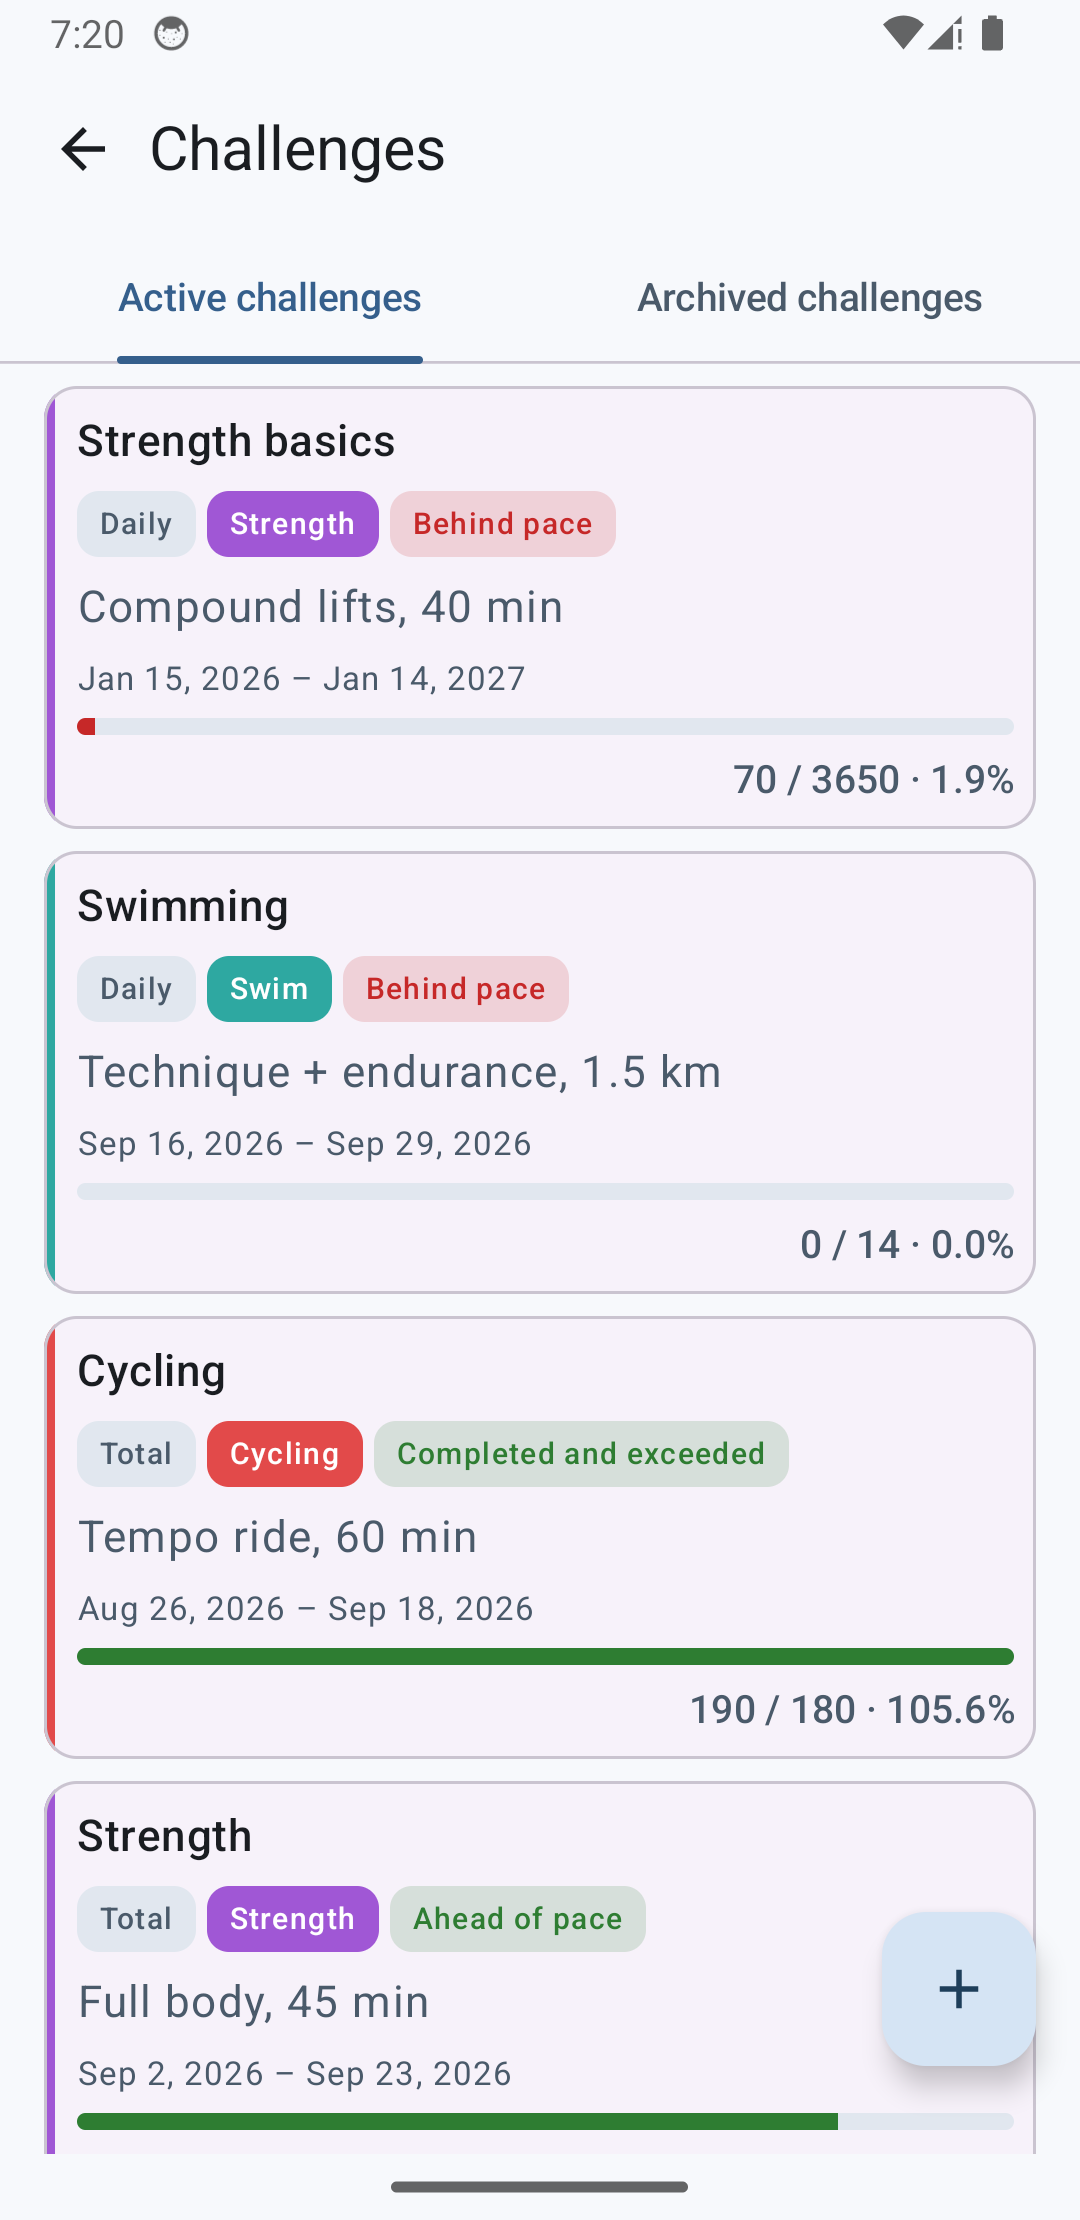
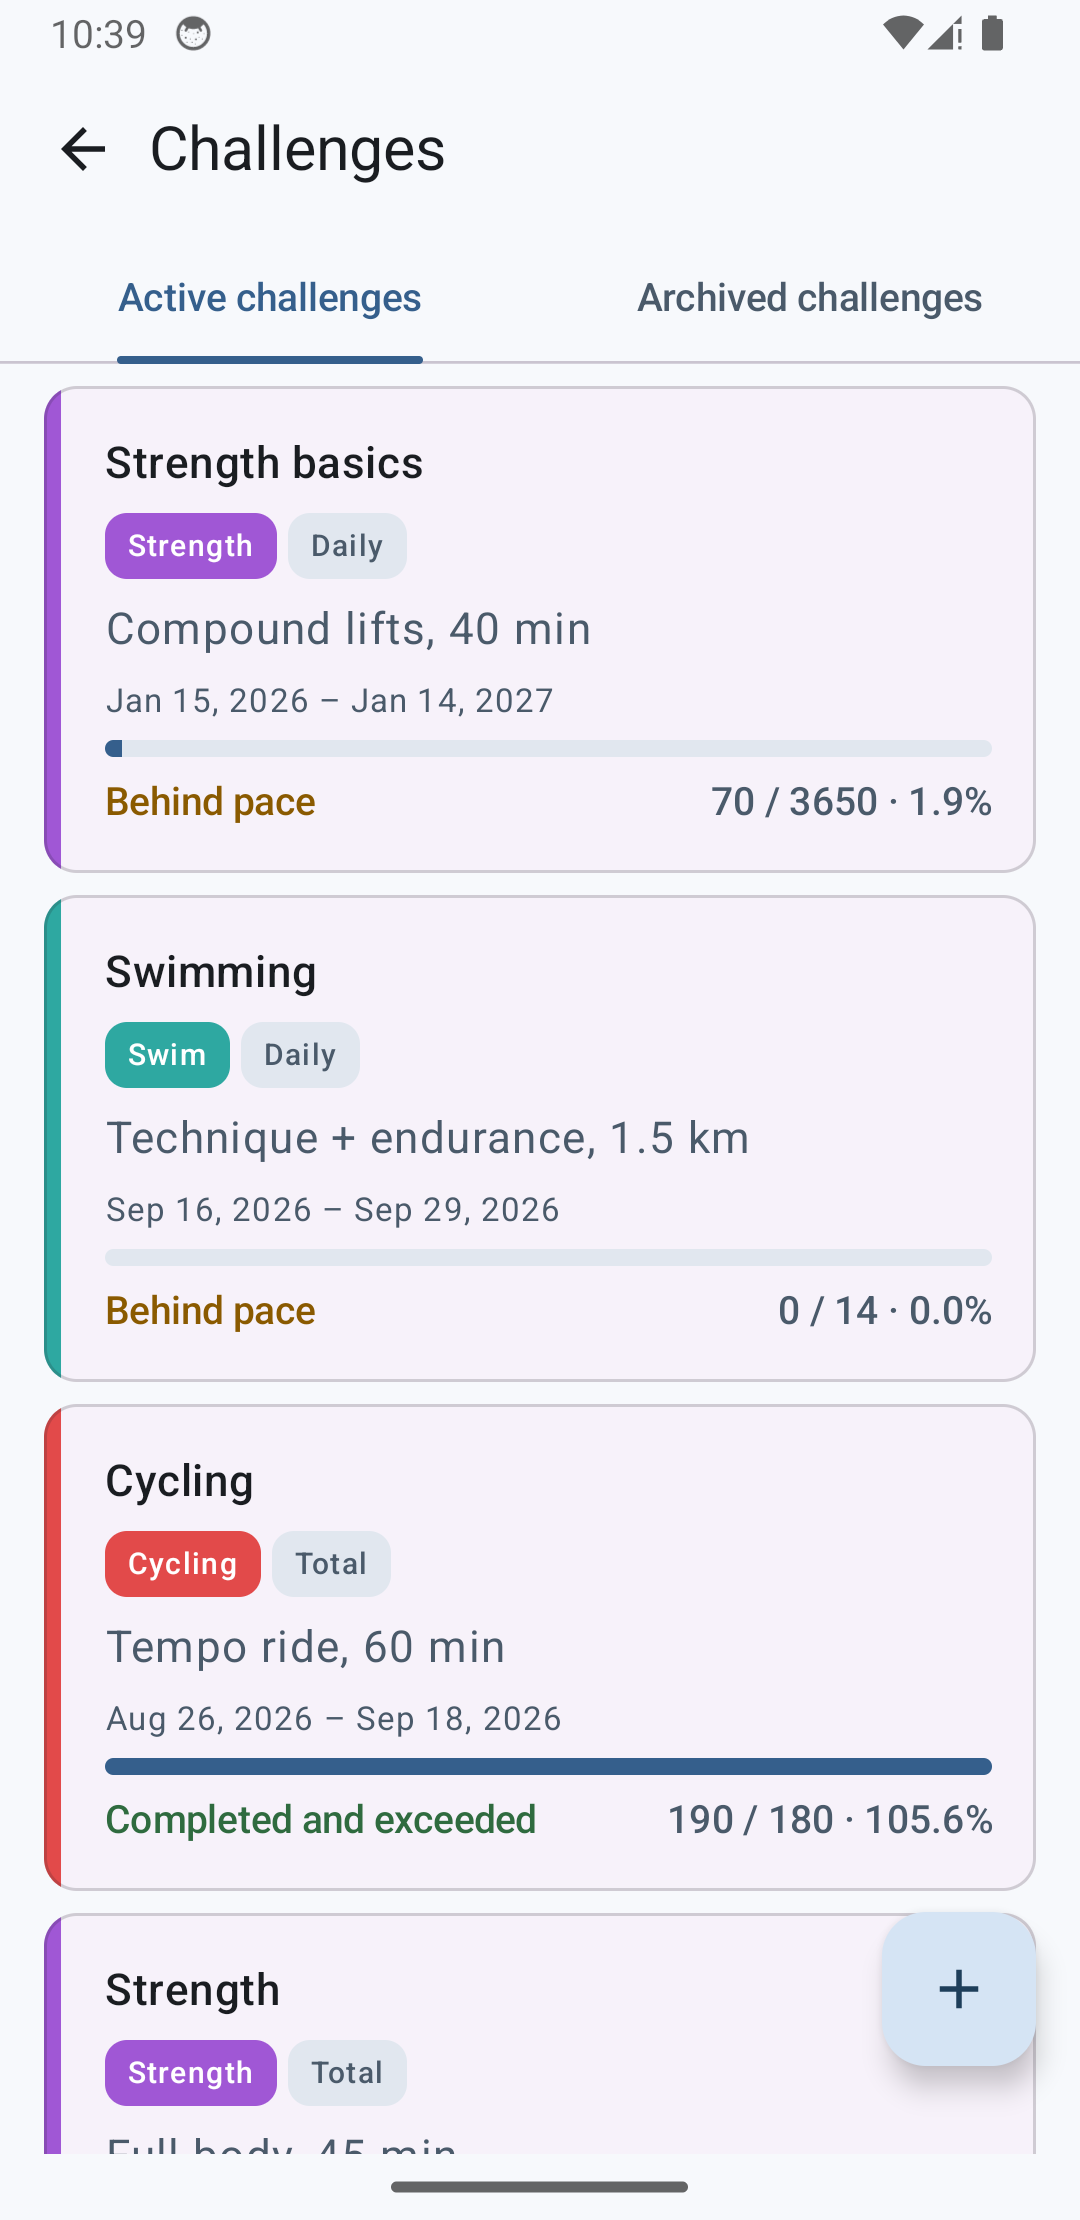
Refine challenge card status styling

diff --git a/app/src/main/java/com/rafaelfelipeac/hermes/features/challenges/presentation/ChallengeDetailSummaryCard.kt b/app/src/main/java/com/rafaelfelipeac/hermes/features/challenges/presentation/ChallengeDetailSummaryCard.kt
@@ -3,17 +3,27 @@ package com.rafaelfelipeac.hermes.features.challenges.presentation
 import androidx.compose.foundation.BorderStroke
 import androidx.compose.foundation.layout.Arrangement
 import androidx.compose.foundation.layout.Column
+import androidx.compose.foundation.layout.IntrinsicSize
+import androidx.compose.foundation.layout.Row
+import androidx.compose.foundation.layout.fillMaxHeight
 import androidx.compose.foundation.layout.fillMaxWidth
+import androidx.compose.foundation.layout.height
 import androidx.compose.foundation.layout.padding
+import androidx.compose.foundation.layout.width
 import androidx.compose.material3.Card
 import androidx.compose.material3.CardDefaults
 import androidx.compose.material3.MaterialTheme.colorScheme
 import androidx.compose.material3.MaterialTheme.shapes
+import androidx.compose.material3.Surface
 import androidx.compose.runtime.Composable
 import androidx.compose.ui.Modifier
+import androidx.compose.ui.draw.clip
+import com.rafaelfelipeac.hermes.core.ui.theme.CHALLENGE_FRAME_ALPHA
 import com.rafaelfelipeac.hermes.core.ui.theme.Dimens.BorderHairline
-import com.rafaelfelipeac.hermes.core.ui.theme.Dimens.SpacingMd
+import com.rafaelfelipeac.hermes.core.ui.theme.Dimens.ChallengeCategoryAccentWidth
 import com.rafaelfelipeac.hermes.core.ui.theme.Dimens.SpacingSm
+import com.rafaelfelipeac.hermes.core.ui.theme.Dimens.SpacingXl
+import com.rafaelfelipeac.hermes.core.ui.theme.categoryAccentColor
 import com.rafaelfelipeac.hermes.features.categories.domain.model.Category
 import com.rafaelfelipeac.hermes.features.challenges.domain.model.Challenge
 import com.rafaelfelipeac.hermes.features.challenges.domain.model.ChallengeCalculationResult
@@ -24,22 +34,39 @@ internal fun ChallengeDetailSummaryCard(
     category: Category?,
     calculation: ChallengeCalculationResult,
 ) {
+    val frameColor = colorScheme.onSurface.copy(alpha = CHALLENGE_FRAME_ALPHA)
     Card(
         modifier = Modifier.fillMaxWidth(),
         shape = shapes.medium,
         colors = CardDefaults.cardColors(containerColor = colorScheme.surfaceContainerLow),
-        border = BorderStroke(BorderHairline, colorScheme.outlineVariant),
+        border = BorderStroke(BorderHairline, frameColor),
     ) {
-        Column(
-            modifier = Modifier.padding(SpacingMd),
-            verticalArrangement = Arrangement.spacedBy(SpacingSm),
+        Row(
+            modifier =
+                Modifier
+                    .fillMaxWidth()
+                    .height(IntrinsicSize.Min)
+                    .clip(shapes.medium),
         ) {
-            ChallengeSummaryContent(
-                challenge = challenge,
-                category = category,
-                calculation = calculation,
-                showProgressBar = true,
-            )
+            Surface(
+                color = category?.let { categoryAccentColor(it.colorId) } ?: colorScheme.outlineVariant,
+                modifier =
+                    Modifier
+                        .fillMaxHeight()
+                        .width(ChallengeCategoryAccentWidth),
+            ) {}
+
+            Column(
+                modifier = Modifier.weight(1f).padding(SpacingXl),
+                verticalArrangement = Arrangement.spacedBy(SpacingSm),
+            ) {
+                ChallengeSummaryContent(
+                    challenge = challenge,
+                    category = category,
+                    calculation = calculation,
+                    showProgressBar = true,
+                )
+            }
         }
     }
 }

diff --git a/app/src/main/java/com/rafaelfelipeac/hermes/features/challenges/presentation/ChallengeSummaryContent.kt b/app/src/main/java/com/rafaelfelipeac/hermes/features/challenges/presentation/ChallengeSummaryContent.kt
@@ -4,6 +4,7 @@ package com.rafaelfelipeac.hermes.features.challenges.presentation
 
 import androidx.compose.foundation.layout.Arrangement
 import androidx.compose.foundation.layout.FlowRow
+import androidx.compose.foundation.layout.Row
 import androidx.compose.foundation.layout.fillMaxWidth
 import androidx.compose.material3.MaterialTheme.colorScheme
 import androidx.compose.material3.MaterialTheme.typography
@@ -26,6 +27,7 @@ import com.rafaelfelipeac.hermes.features.challenges.domain.model.ChallengeCalcu
 
 private const val CHALLENGE_TITLE_MAX_LINES = 2
 private const val CHALLENGE_DESCRIPTION_MAX_LINES = 2
+private const val CHALLENGE_STATUS_MAX_LINES = 2
 
 @Composable
 internal fun ChallengeSummaryContent(
@@ -47,11 +49,6 @@ internal fun ChallengeSummaryContent(
         horizontalArrangement = Arrangement.spacedBy(SpacingXs),
         verticalArrangement = Arrangement.spacedBy(SpacingXs),
     ) {
-        TitleChip(
-            label = challengeTargetTypeLabel(challenge.targetType),
-            containerColor = colorScheme.surfaceVariant,
-            contentColor = colorScheme.onSurfaceVariant,
-        )
         category?.let {
             TitleChip(
                 label = it.name,
@@ -59,13 +56,11 @@ internal fun ChallengeSummaryContent(
                 contentColor = categoryAccent?.let { accent -> contentColorForBackground(accent) } ?: colorScheme.onSurfaceVariant,
             )
         }
-        calculation?.let { result ->
-            TitleChip(
-                label = challengeStatusLabel(result.status),
-                containerColor = challengeProgressContainerColor(result.status),
-                contentColor = challengeProgressColor(result.status),
-            )
-        }
+        TitleChip(
+            label = challengeTargetTypeLabel(challenge.targetType),
+            containerColor = colorScheme.surfaceVariant,
+            contentColor = colorScheme.onSurfaceVariant,
+        )
     }
     challenge.description?.takeIf { it.isNotBlank() }?.let { description ->
         Text(
@@ -87,11 +82,28 @@ internal fun ChallengeSummaryContent(
     )
     calculation?.let { result ->
         if (showProgressBar) {
-            ChallengeProgressBar(result.visualProgress, challengeProgressColor(result.status), modifier)
+            ChallengeProgressBar(result.visualProgress, challengeProgressBarColor(), modifier)
         }
+        ChallengeProgressFooter(result = result)
+    }
+}
+
+@Composable
+private fun ChallengeProgressFooter(result: ChallengeCalculationResult) {
+    Row(
+        modifier = Modifier.fillMaxWidth(),
+        horizontalArrangement = Arrangement.SpaceBetween,
+    ) {
+        Text(
+            text = challengeStatusLabel(result.status),
+            modifier = Modifier.weight(1f),
+            style = typography.labelLarge,
+            color = challengeStatusTextColor(result.status),
+            maxLines = CHALLENGE_STATUS_MAX_LINES,
+            overflow = TextOverflow.Ellipsis,
+        )
         Text(
             text = challengeProgressLabel(result),
-            modifier = Modifier.fillMaxWidth(),
             style = typography.labelLarge,
             color = colorScheme.onSurfaceVariant,
             textAlign = TextAlign.End,

diff --git a/app/src/main/java/com/rafaelfelipeac/hermes/features/challenges/presentation/ChallengeProgressPresentation.kt b/app/src/main/java/com/rafaelfelipeac/hermes/features/challenges/presentation/ChallengeProgressPresentation.kt
@@ -5,6 +5,11 @@ import androidx.compose.runtime.Composable
 import androidx.compose.ui.graphics.Color
 import androidx.compose.ui.res.stringResource
 import com.rafaelfelipeac.hermes.R
+import com.rafaelfelipeac.hermes.core.ui.theme.ChallengeStatusSuccessDark
+import com.rafaelfelipeac.hermes.core.ui.theme.ChallengeStatusSuccessLight
+import com.rafaelfelipeac.hermes.core.ui.theme.ChallengeStatusWarningDark
+import com.rafaelfelipeac.hermes.core.ui.theme.ChallengeStatusWarningLight
+import com.rafaelfelipeac.hermes.core.ui.theme.isDarkBackground
 import com.rafaelfelipeac.hermes.features.challenges.domain.model.Challenge
 import com.rafaelfelipeac.hermes.features.challenges.domain.model.ChallengeProgressEntry
 import com.rafaelfelipeac.hermes.features.challenges.domain.model.ChallengeQuantity
@@ -14,10 +19,6 @@ import java.time.LocalDate
 import java.time.temporal.ChronoUnit
 
 internal const val CHALLENGES_TAG_DETAIL_HISTORY_GROUP_PREFIX = "challenges_detail_history_group_"
-
-private const val CHALLENGE_TAG_CONTAINER_ALPHA = 0.16f
-private val ChallengeProgressAheadColor = Color(0xFF2E7D32)
-private val ChallengeProgressBehindColor = Color(0xFFC62828)
 
 internal data class ChallengeProgressDateGroup(
     val date: LocalDate,
@@ -76,23 +77,25 @@ internal fun challengeStatusLabel(status: ChallengeStatus): String {
 }
 
 @Composable
-internal fun challengeProgressColor(status: ChallengeStatus): Color {
-    return when (status) {
-        ChallengeStatus.AHEAD,
-        ChallengeStatus.ON_TRACK,
-        ChallengeStatus.COMPLETED,
-        ChallengeStatus.EXCEEDED,
-        -> ChallengeProgressAheadColor
-
-        ChallengeStatus.BEHIND,
-        ChallengeStatus.EXPIRED_INCOMPLETE,
-        -> ChallengeProgressBehindColor
-
-        ChallengeStatus.NOT_STARTED -> colorScheme.primary
-    }
+internal fun challengeProgressBarColor(): Color {
+    return colorScheme.primary
 }
 
 @Composable
-internal fun challengeProgressContainerColor(status: ChallengeStatus): Color {
-    return challengeProgressColor(status).copy(alpha = CHALLENGE_TAG_CONTAINER_ALPHA)
+internal fun challengeStatusTextColor(status: ChallengeStatus): Color {
+    val isDarkTheme = isDarkBackground(colorScheme.background)
+    return when (status) {
+        ChallengeStatus.ON_TRACK,
+        ChallengeStatus.AHEAD,
+        ChallengeStatus.NOT_STARTED,
+        -> colorScheme.onSurfaceVariant
+
+        ChallengeStatus.BEHIND -> if (isDarkTheme) ChallengeStatusWarningDark else ChallengeStatusWarningLight
+
+        ChallengeStatus.COMPLETED,
+        ChallengeStatus.EXCEEDED,
+        -> if (isDarkTheme) ChallengeStatusSuccessDark else ChallengeStatusSuccessLight
+
+        ChallengeStatus.EXPIRED_INCOMPLETE -> colorScheme.error
+    }
 }

diff --git a/app/src/main/java/com/rafaelfelipeac/hermes/features/challenges/presentation/ChallengeCard.kt b/app/src/main/java/com/rafaelfelipeac/hermes/features/challenges/presentation/ChallengeCard.kt
@@ -17,11 +17,13 @@ import androidx.compose.material3.MaterialTheme.shapes
 import androidx.compose.material3.Surface
 import androidx.compose.runtime.Composable
 import androidx.compose.ui.Modifier
+import androidx.compose.ui.draw.clip
 import androidx.compose.ui.platform.testTag
+import com.rafaelfelipeac.hermes.core.ui.theme.CHALLENGE_FRAME_ALPHA
 import com.rafaelfelipeac.hermes.core.ui.theme.Dimens.BorderHairline
-import com.rafaelfelipeac.hermes.core.ui.theme.Dimens.SpacingMd
+import com.rafaelfelipeac.hermes.core.ui.theme.Dimens.ChallengeCategoryAccentWidth
 import com.rafaelfelipeac.hermes.core.ui.theme.Dimens.SpacingSm
-import com.rafaelfelipeac.hermes.core.ui.theme.Dimens.SpacingXs
+import com.rafaelfelipeac.hermes.core.ui.theme.Dimens.SpacingXl
 import com.rafaelfelipeac.hermes.core.ui.theme.categoryAccentColor
 import com.rafaelfelipeac.hermes.features.categories.domain.model.Category
 import com.rafaelfelipeac.hermes.features.challenges.domain.model.Challenge
@@ -35,24 +37,31 @@ internal fun ChallengeCard(
     calculation: ChallengeCalculationResult?,
     onClick: () -> Unit,
 ) {
+    val frameColor = colorScheme.onSurface.copy(alpha = CHALLENGE_FRAME_ALPHA)
     Card(
         onClick = onClick,
         modifier = Modifier.fillMaxWidth(),
         shape = shapes.medium,
         colors = CardDefaults.cardColors(containerColor = colorScheme.surfaceContainerLow),
-        border = BorderStroke(BorderHairline, colorScheme.outlineVariant),
+        border = BorderStroke(BorderHairline, frameColor),
     ) {
-        Row(modifier = Modifier.fillMaxWidth().height(IntrinsicSize.Min)) {
+        Row(
+            modifier =
+                Modifier
+                    .fillMaxWidth()
+                    .height(IntrinsicSize.Min)
+                    .clip(shapes.medium),
+        ) {
             Surface(
-                color = category?.let { categoryAccentColor(it.colorId) } ?: colorScheme.primary,
+                color = category?.let { categoryAccentColor(it.colorId) } ?: colorScheme.outlineVariant,
                 modifier =
                     Modifier
                         .fillMaxHeight()
-                        .width(SpacingXs),
+                        .width(ChallengeCategoryAccentWidth),
             ) {}
 
             Column(
-                modifier = Modifier.weight(1f).padding(SpacingMd),
+                modifier = Modifier.weight(1f).padding(SpacingXl),
                 verticalArrangement = Arrangement.spacedBy(SpacingSm),
             ) {
                 ChallengeSummaryContent(

diff --git a/app/src/main/java/com/rafaelfelipeac/hermes/core/ui/theme/Color.kt b/app/src/main/java/com/rafaelfelipeac/hermes/core/ui/theme/Color.kt
@@ -11,6 +11,11 @@ val CompletedBlueContent = Color(0xFF0B3A63)
 val RestDayContentDark = Color(0xFFB6C2CF)
 val RestDayContentLight = Color(0xFF4A5A6A)
 
+val ChallengeStatusWarningLight = Color(0xFF8A5A00)
+val ChallengeStatusWarningDark = Color(0xFFFFCC66)
+val ChallengeStatusSuccessLight = Color(0xFF2F6B3F)
+val ChallengeStatusSuccessDark = Color(0xFF8FD29A)
+
 val LightPrimary = TodoBlue
 val LightOnPrimary = TodoBlueContent
 

diff --git a/app/src/main/java/com/rafaelfelipeac/hermes/core/ui/theme/ThemeConstants.kt b/app/src/main/java/com/rafaelfelipeac/hermes/core/ui/theme/ThemeConstants.kt
@@ -9,6 +9,7 @@ const val LIGHTER_TONE_BLEND_DARK = 0.16f
 const val LIGHTER_TONE_BLEND_LIGHT = 0.1f
 const val INDICATOR_EXTRA_BLEND_DARK = 0.12f
 const val INDICATOR_EXTRA_BLEND_LIGHT = 0.16f
+const val CHALLENGE_FRAME_ALPHA = 0.18f
 
 fun isDarkBackground(background: Color): Boolean {
     return background.luminance() < DARK_THEME_LUMINANCE_THRESHOLD

diff --git a/app/src/main/java/com/rafaelfelipeac/hermes/core/ui/theme/Dimens.kt b/app/src/main/java/com/rafaelfelipeac/hermes/core/ui/theme/Dimens.kt
@@ -44,6 +44,7 @@ object Dimens {
     val SettingsRowMinHeight = 56.dp
     val ReleaseNotesBottomPadding = 24.dp
     val ProgressReadoutBarHeight = 10.dp
+    val ChallengeCategoryAccentWidth = 6.dp
     val ChallengeProgressBarHeight = 6.dp
     val ProgressTrendBarHeight = 96.dp
     val ProgressTrendBarMinWidth = 28.dp

diff --git a/LEARNING.md b/LEARNING.md
@@ -30,6 +30,7 @@ Assumptions made from the current code and README:
 If future work adds light recognition (soft streaks, small trophies, gentle celebrations), it should stay opt-in and non-judgmental so it reinforces the calm, offline-first intent instead of undermining it.
 
 Recent learnings:
+- Challenge cards read calmer when category color is limited to identity surfaces (left rail and category chip) while progress uses the theme primary color. Target type still works best as a neutral chip beside category, while status color should be supplementary text instead of another saturated chip/bar system competing with the category.
 - When a progress bar uses nested fill layers, the outer planned workload can be correct while the inner completion layer still renders from the top by default; explicitly bottom-aligning the inner layer preserves the intended "completion rises from the base" reading.
 - Weekly completion charts are easier to read when the bar height encodes planned workload and the fill encodes completion; percent-only bars hide the fact that a 1/1 week and a 9/10 week are not the same kind of load.
 - Weekly progress percentages are easy to misread when the planned workload changes week to week; showing the completed/planned count on every bar makes the percentage honest instead of implying equal effort across all weeks.
